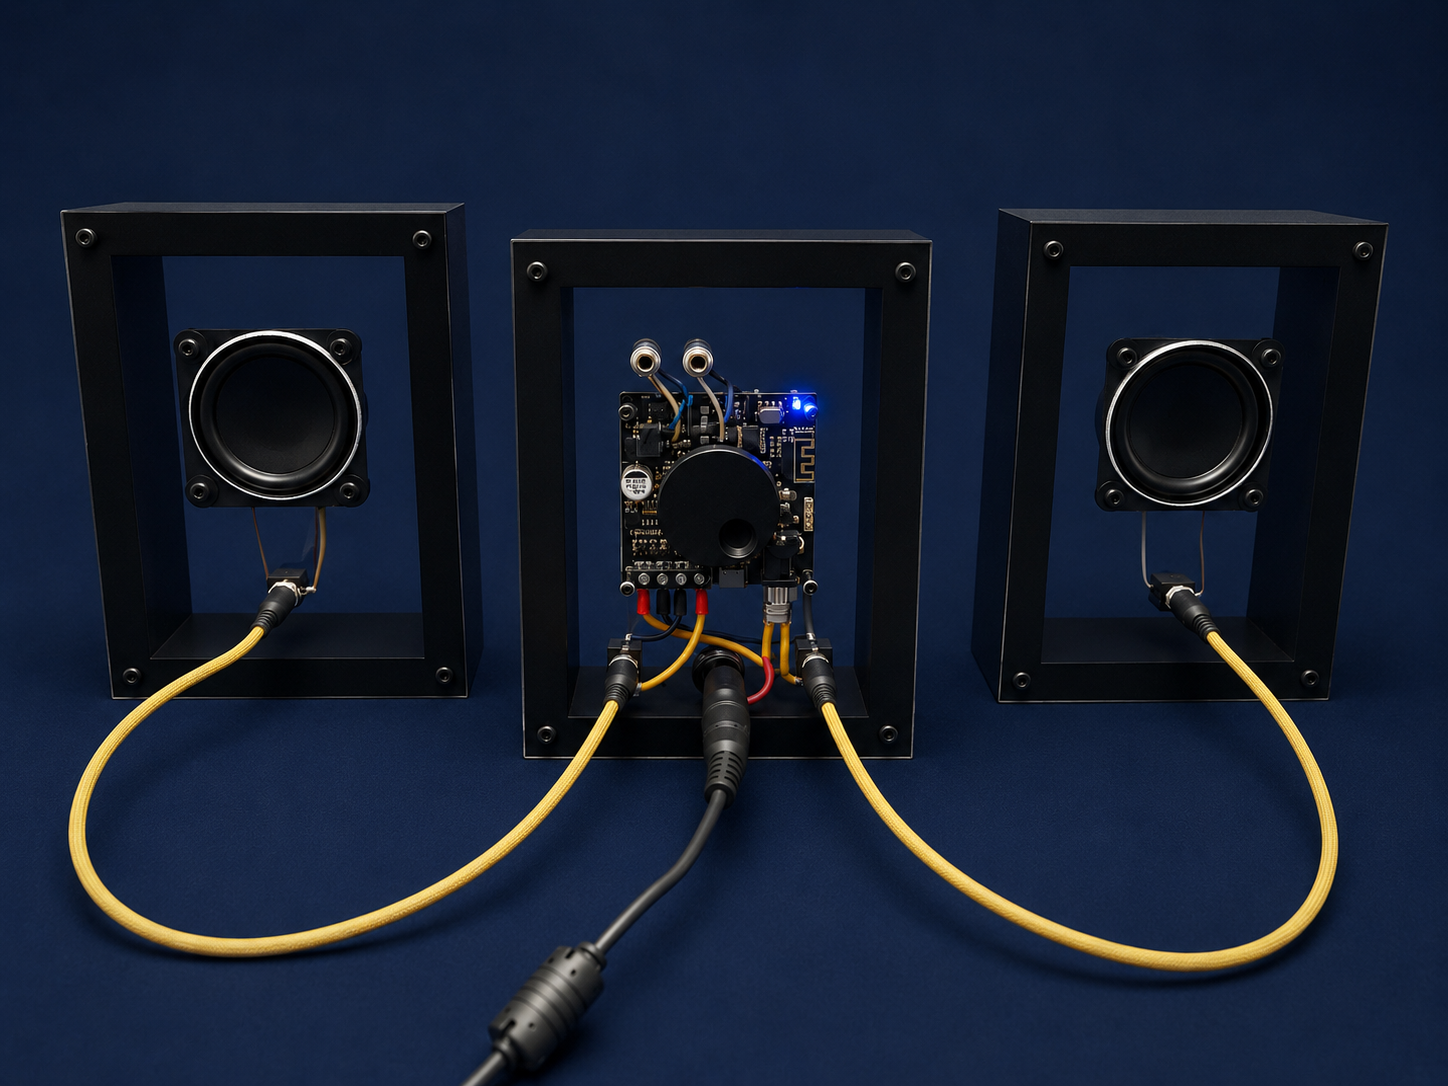
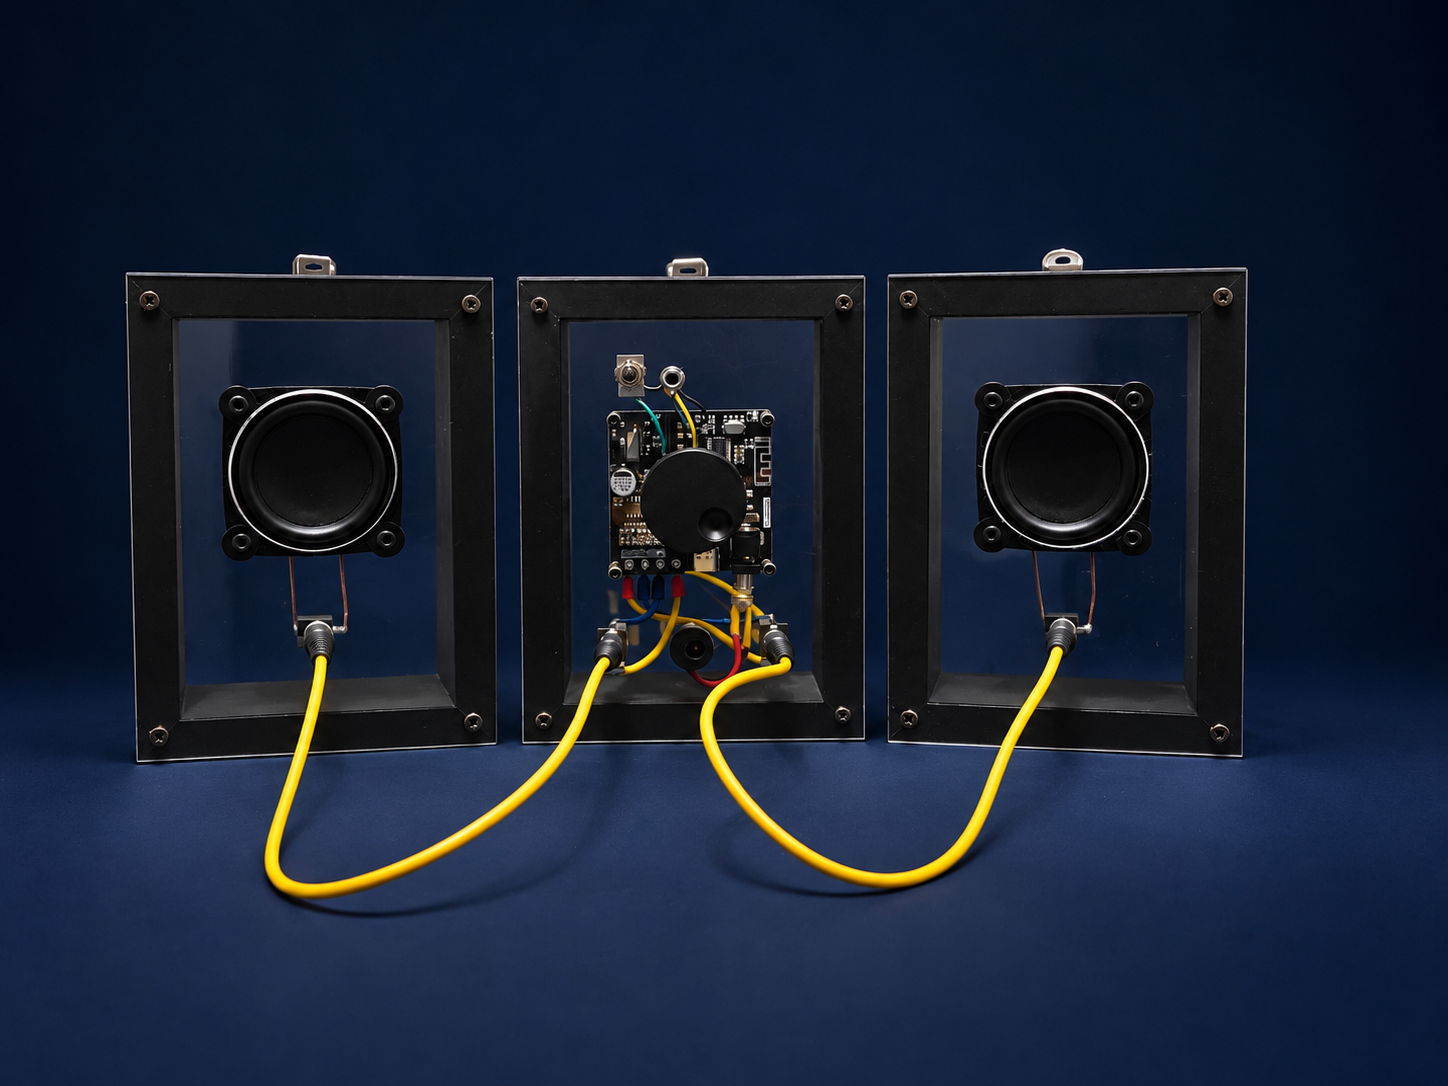
fix(junkyard): sync COMPO-1 photo to the vault master photo (#66)
The vault junk-yard-2026.json already pointed to the newer official photo (baf5f55b7510.png) while production still served the older one. Regenerated the page from obsidian-vault@1cba5e5f, replaced the legacy asset with the R2 binary (sha256 verified against the vault JSON), and updated the check-public expectations.

diff --git a/public/junkyard/works/compo-1/index.html b/public/junkyard/works/compo-1/index.html
@@ -1,4 +1,4 @@
-<!-- GENERATED DERIVATIVE: yzrswork/obsidian-vault@769f7325c95c160def77ea871ceaacf82d9f00d9 / PlayGuide_HTML/yzrsnote_A5_pages/data/junk-yard-2026.json; generated with scripts/generate_work_pages.py --slug compo-1, then adapted only for this production route; do not edit content by hand. -->
+<!-- GENERATED DERIVATIVE: yzrswork/obsidian-vault@1cba5e5f20976f43dbd5f959f481a67ab2c2dfb8 / PlayGuide_HTML/yzrsnote_A5_pages/data/junk-yard-2026.json; generated with scripts/generate_work_pages.py --slug compo-1, then adapted only for this production route; do not edit content by hand. -->
 <!doctype html>
 <html lang="ja">
 <head>
@@ -80,7 +80,7 @@ dd { margin: 0; font-family: ui-monospace, "SFMono-Regular", Menlo, monospace; f
   <div class="eyebrow">JUNK YARD 2026 / WORK COMPO-1</div>
   <h1>COMPO-1</h1>
   <p class="subtitle">3連ステレオスピーカーシステム</p>
-  <div class="visual"><img src="https://assets.yzrswork.com/junkyard/2026/works/compo-1/official/1bc21a464ffe.png" alt="COMPO-1"></div>
+  <div class="visual"><img src="https://assets.yzrswork.com/junkyard/2026/works/compo-1/official/baf5f55b7510.png" alt="COMPO-1"></div>
   <section>
     <h2>CONCEPT / コンセプト</h2>
     <p>MO-1の出力が小さすぎた為、アンプとスピーカーを別に足すなら、ただの付属品ではなく昔のコンポのように「3つで一組」にしようかなと思ったのが出発点。同じ深型額縁3個をL / AMP / Rに分け、並べたり積んだり飾れるコンポみたいにしてみました。</p>
